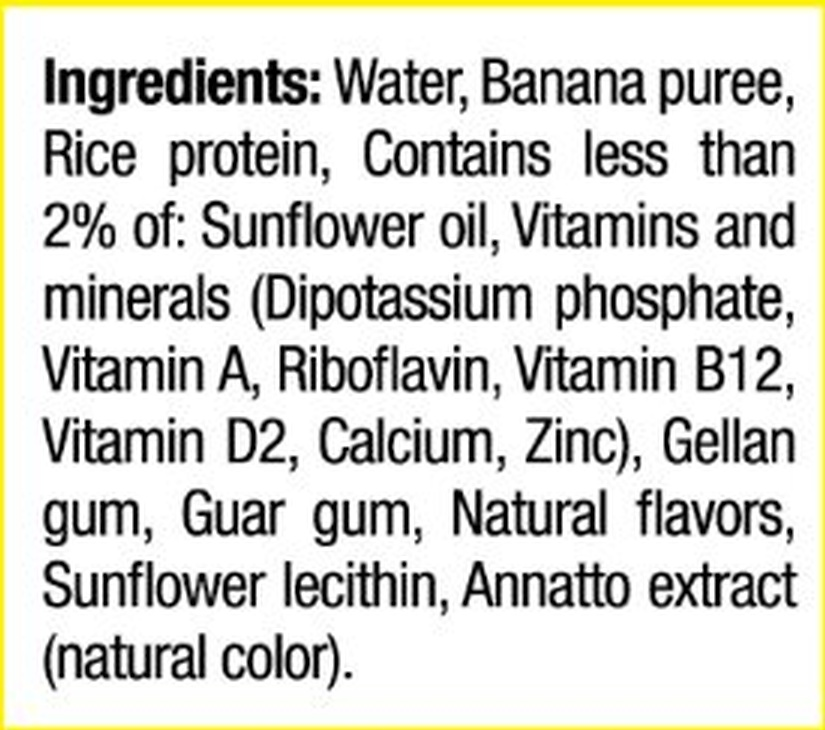
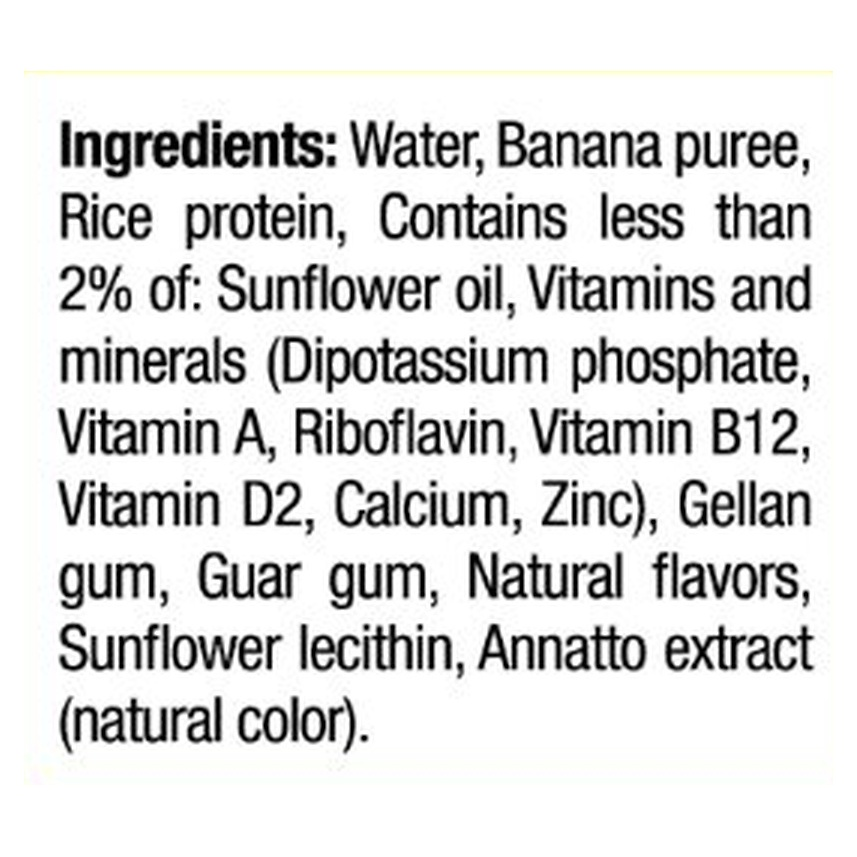
Make Kunana images square 1:1 with white padding
Claude-Session: https://claude.ai/code/session_018KPjKEYj5PmfLU85J2BcQv

diff --git a/square.py b/square.py
@@ -1,0 +1,9 @@
+import sys,glob
+from PIL import Image
+for f in glob.glob(sys.argv[1]+'/*.jpg'):
+    im=Image.open(f).convert('RGB')
+    if f.split('/')[-1].startswith('ingredients'):
+        w,h=im.size; im=im.crop((8,8,w-8,h-8))
+    w,h=im.size; s=int(max(w,h)*1.06)
+    c=Image.new('RGB',(s,s),(255,255,255)); c.paste(im,((s-w)//2,(s-h)//2))
+    c.save(f,quality=95); print(f,c.size)
